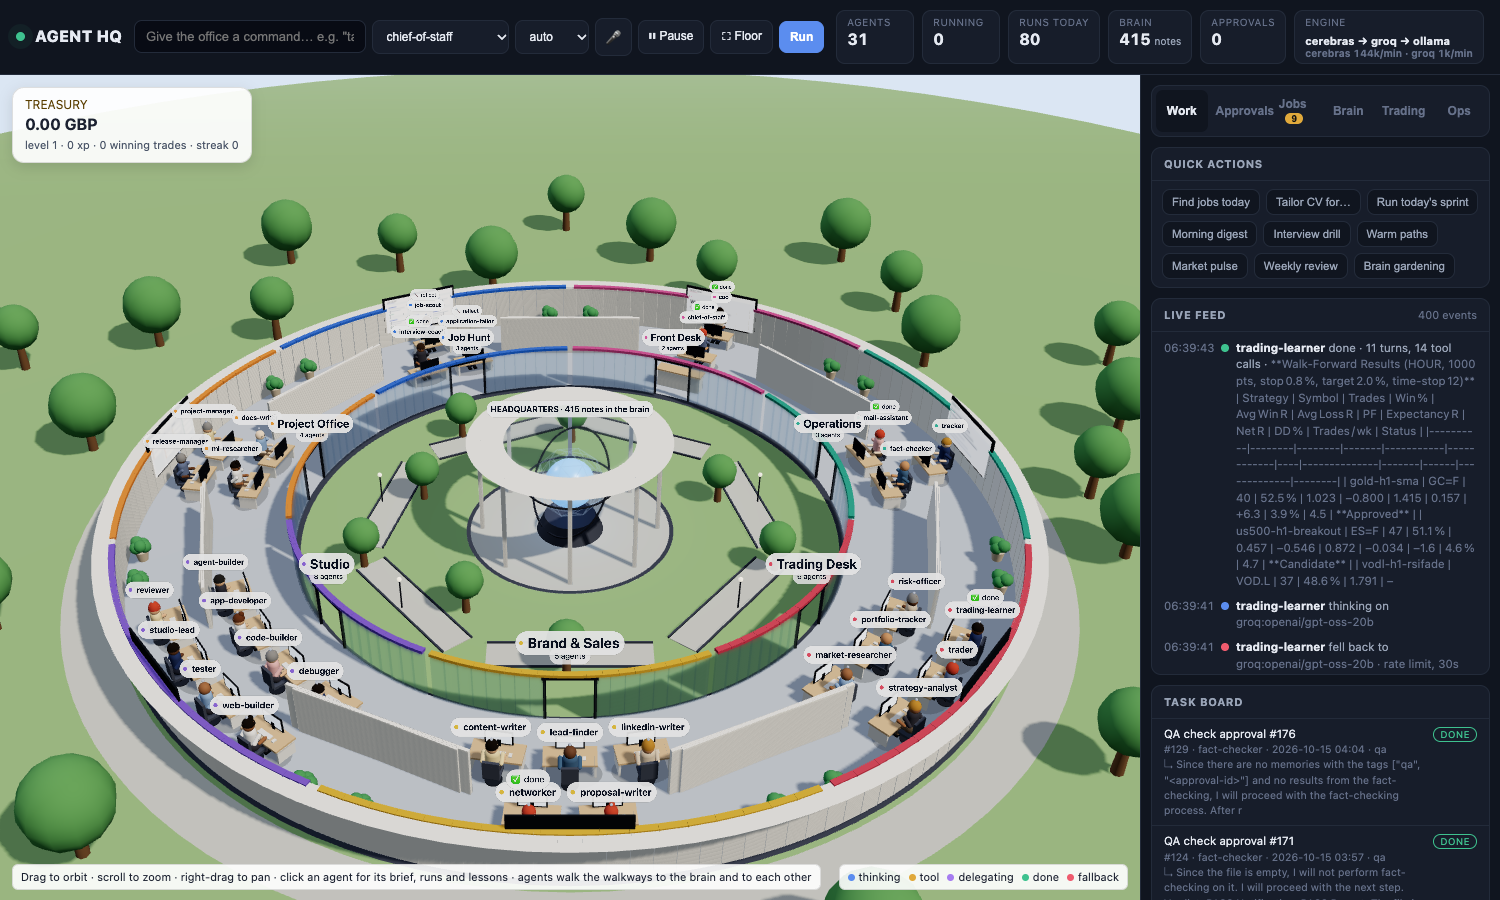
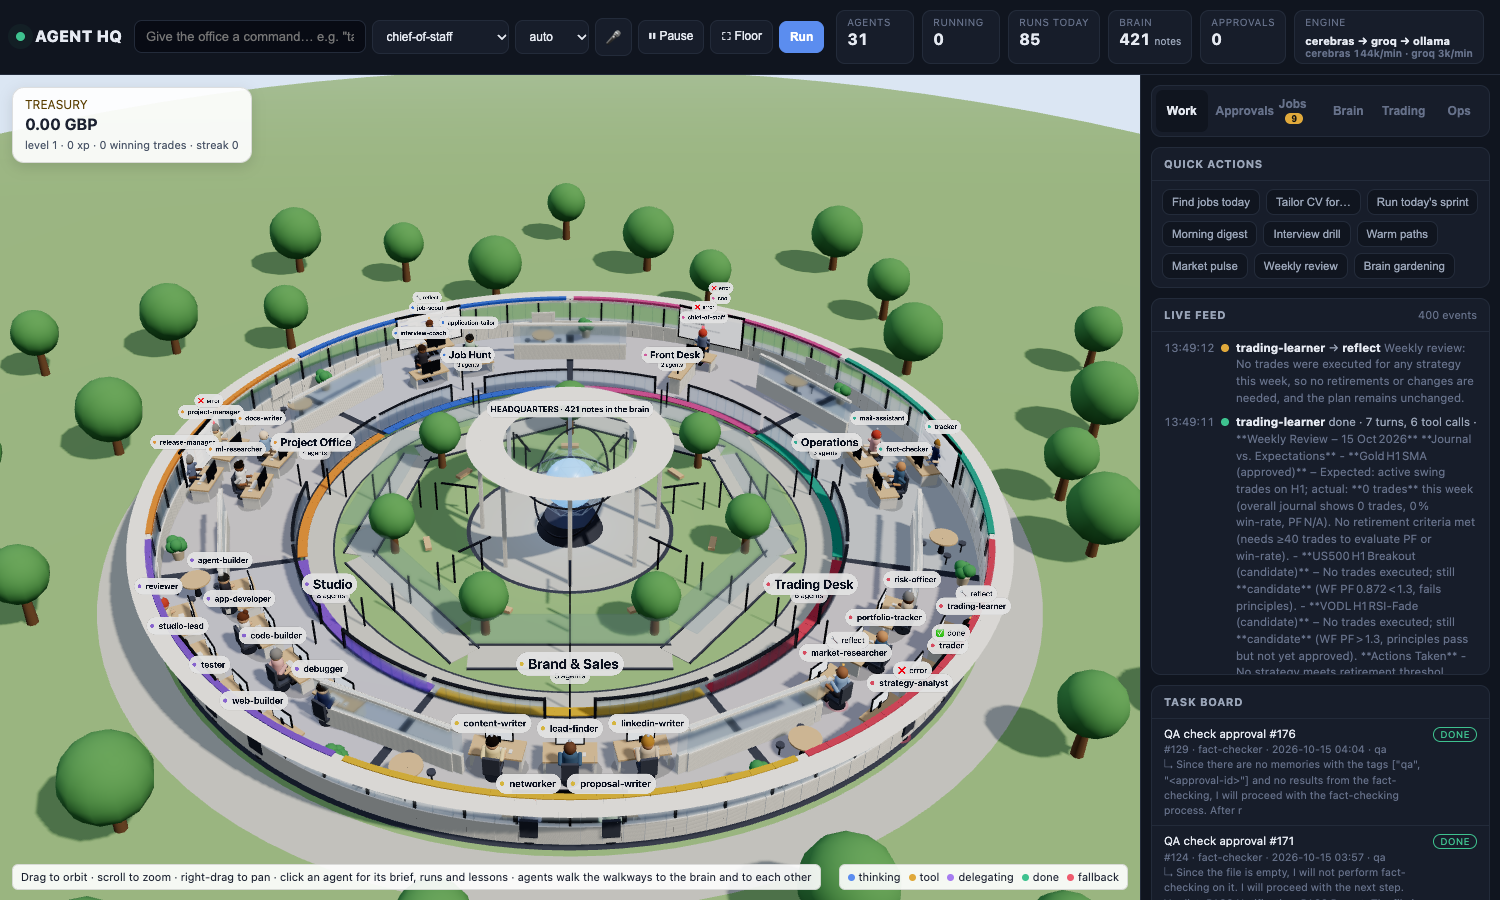
Sync from dev: Ring campus detailing: continuous walkways under glass canopies, promenade, lawn wedges, tinted floors, meeting tables, balustrade inner wall; resume only on Pribin's word; parallelism follows healthy providers; outage failures retry

diff --git a/office/static/office3d.js b/office/static/office3d.js
@@ -15,7 +15,7 @@ const STATE_COLOR = { idle: 0x9aa3b5, think: 0x3b6fd6, tool: 0xd98433, delegate:
 const SKIN = [0xf3cfae, 0xe0b08a, 0xc48e63, 0x9c6a45, 0x6f4a30, 0xf7dcc0];
 const TOPS = [0x2d3f6b, 0xf2f2f2, 0x6b7a99, 0x8fb0d9, 0xd9c7b0, 0x3f3f4a, 0xb9d3c2, 0xe6b3b3, 0x4a6b8a, 0xf0d9a8];
 const HAIR = [0x1d140e, 0x3b2616, 0x6b3f22, 0xb8842d, 0x2a2a2a, 0x8a8a8a, 0xc24b2f];
-const RI = 34, RO = 54, RP = 13, H = 6;          // ring inner/outer radius, courtyard plaza radius, wall height
+const RI = 34, RO = 50, RP = 13, H = 6;          // ring inner/outer radius, courtyard plaza radius, wall height
 
 let renderer, scene, camera, controls, container, clock, raycaster, mouse;
 let ring, figures = {}, depts = {}, brain, brainRings = [], brainLight, particles = [], labels = [], opts = {}, lastFrame = 0, hovered = null;
@@ -113,7 +113,6 @@ export function init(el, options = {}) {
   const plazaRing = new THREE.Mesh(new THREE.RingGeometry(RP - 0.5, RP, 64), M.wallDark); plazaRing.rotation.x = -Math.PI / 2; plazaRing.position.y = 0.06; scene.add(plazaRing);
   for (let i = 0; i < 34; i++) { const a = (i / 34) * Math.PI * 2 + 0.1, r = RO + 14 + (i % 3) * 12; const tree = new THREE.Group(); const trunk = new THREE.Mesh(new THREE.CylinderGeometry(0.5, 0.7, 5, 8), M.trunk); trunk.position.y = 2.5; trunk.castShadow = true; tree.add(trunk);
     const c1 = new THREE.Mesh(new THREE.SphereGeometry(3.4 + (i % 2), 12, 10), M.canopy); c1.position.y = 7; c1.castShadow = true; tree.add(c1); tree.position.copy(polar(r, a)); scene.add(tree); }
-  for (let i = 0; i < 10; i++) { const a = (i / 10) * Math.PI * 2 + 0.3, r = RP + 7 + (i % 2) * 6; if (Math.abs(Math.sin(a * 3.5)) < 0.25) continue; const tree = new THREE.Group(); const trunk = new THREE.Mesh(new THREE.CylinderGeometry(0.35, 0.5, 3.5, 8), M.trunk); trunk.position.y = 1.75; tree.add(trunk); const c1 = new THREE.Mesh(new THREE.SphereGeometry(2.2, 12, 10), M.canopy); c1.position.y = 4.6; c1.castShadow = true; tree.add(c1); tree.position.copy(polar(r, a)); scene.add(tree); }
   buildCenter();
   renderer.domElement.addEventListener("pointerdown", e => { mouse.userData = { x: e.clientX, y: e.clientY }; });
   renderer.domElement.addEventListener("pointerup", e => { const d = mouse.userData; if (d && Math.hypot(e.clientX - d.x, e.clientY - d.y) < 5) { const f = pick(e); if (f && opts.onAgentClick) opts.onAgentClick(f.name); } });
@@ -163,43 +162,64 @@ export function setRoster(list) {
   const byOffice = {}; list.forEach(a => (byOffice[a.office] = byOffice[a.office] || []).push(a));
   const names = Object.keys(byOffice).sort((a, b) => (OFFICE_ORDER.indexOf(a) + 99) % 100 - (OFFICE_ORDER.indexOf(b) + 99) % 100);
   const n = names.length; const span = Math.PI * 2 / n; const gap = 0.012;
-  // shared parts: floor slab, outer wall, roof overhang ring
-  const slab = new THREE.Mesh(new THREE.RingGeometry(RI - 0.6, RO + 0.6, 96), M.wallDark); slab.rotation.x = -Math.PI / 2; slab.position.y = 0.4; slab.receiveShadow = true; ring.add(slab);
-  const carpet = new THREE.Mesh(new THREE.RingGeometry(RI, RO, 96), M.carpet); carpet.rotation.x = -Math.PI / 2; carpet.position.y = 0.82; carpet.receiveShadow = true; ring.add(carpet);
-  arcWall(ring, RO, 0, Math.PI * 2, 0.8 + H / 2, H, 0.5, M.wall, 0.04);
-  const eave = new THREE.Mesh(new THREE.RingGeometry(RO - 0.2, RO + 2.2, 96), M.wall); eave.rotation.x = -Math.PI / 2; eave.position.y = 0.8 + H + 0.2; eave.castShadow = true; ring.add(eave);
+  // the building shell: slab, outer wall with a window band, roof eave
+  const slab = new THREE.Mesh(new THREE.RingGeometry(RI - 0.6, RO + 0.6, 128), M.wallDark); slab.rotation.x = -Math.PI / 2; slab.position.y = 0.4; slab.receiveShadow = true; ring.add(slab);
+  arcWall(ring, RO, 0, Math.PI * 2, 0.8 + 1.2, 2.4, 0.5, M.wall, 0.04);           // low wall
+  arcWall(ring, RO, 0, Math.PI * 2, 0.8 + 2.4 + 1.6, 3.2, 0.25, M.glass, 0.04);   // window band
+  arcWall(ring, RO, 0, Math.PI * 2, 0.8 + H - 0.2, 0.4, 0.5, M.wall, 0.04);        // beam
+  for (let i = 0; i < 64; i++) { const a = (i / 64) * Math.PI * 2; const mull = box(0.25, H, 0.25, M.frame); mull.position.copy(polar(RO, a, 0.8 + H / 2)); mull.rotation.y = a; ring.add(mull); }
+  const eave = new THREE.Mesh(new THREE.RingGeometry(RO - 0.2, RO + 2.4, 128), M.wall); eave.rotation.x = -Math.PI / 2; eave.position.y = 0.8 + H + 0.25; eave.castShadow = true; ring.add(eave);
+  // courtyard: a promenade joining every doorway, radial walkways under glass canopies, lawn wedges with one tree each
+  const prom = new THREE.Mesh(new THREE.RingGeometry(RI - 4.6, RI - 1.0, 128), M.path); prom.rotation.x = -Math.PI / 2; prom.position.y = 0.06; prom.receiveShadow = true; ring.add(prom);
+  for (const r of [RI - 4.6, RI - 1.0]) { const kerb = new THREE.Mesh(new THREE.RingGeometry(r - 0.12, r + 0.12, 128), M.wallDark); kerb.rotation.x = -Math.PI / 2; kerb.position.y = 0.07; ring.add(kerb); }
   names.forEach((name, i) => {
-    const members = byOffice[name]; const accent = ACCENT[name] || 0x3b6fd6;
+    const members = byOffice[name]; const accent = ACCENT[name] || 0x3b6fd6; const acc = new THREE.Color(accent);
     const th0 = Math.PI / 2 + i * span + gap, th1 = Math.PI / 2 + (i + 1) * span - gap, mid = (th0 + th1) / 2;
-    depts[name] = { name, mid, accent, gate: polar(RI - 1.2, mid), plaza: polar(RP + 1.2, mid), centre: polar((RI + RO) / 2, mid) };
-    // partitions, inner glass wall with a doorway on the walkway, parapet in the department colour
-    for (const th of [th0, th1]) { const part = box(RO - RI, H, 0.4, M.wall); part.position.copy(polar((RI + RO) / 2, th, 0.8 + H / 2)); part.rotation.y = th + Math.PI / 2; ring.add(part); }
+    depts[name] = { name, mid, accent, gate: polar(RI - 1.4, mid), plaza: polar(RP + 1.4, mid), centre: polar((RI + RO) / 2, mid) };
+    // tinted floor for this department
+    const floor = new THREE.Mesh(new THREE.RingGeometry(RI, RO, 48, 1, th0, th1 - th0), new THREE.MeshStandardMaterial({ color: acc.clone().multiplyScalar(0.25).lerp(new THREE.Color(0xd8dde6), 0.72), roughness: 1, side: THREE.DoubleSide }));
+    floor.rotation.x = -Math.PI / 2; floor.position.y = 0.82; floor.receiveShadow = true; ring.add(floor);
+    // partitions (solid below, glass above), inner glass wall with a doorway, parapets in the department colour
+    for (const th of [th0, th1]) { const low = box(RO - RI, 2.6, 0.5, M.wall); low.position.copy(polar((RI + RO) / 2, th, 0.8 + 1.3)); low.rotation.y = th + Math.PI / 2; ring.add(low);
+      const up = new THREE.Mesh(new THREE.BoxGeometry(RO - RI, H - 2.6, 0.3), M.glass); up.position.copy(polar((RI + RO) / 2, th, 0.8 + 2.6 + (H - 2.6) / 2)); up.rotation.y = th + Math.PI / 2; ring.add(up);
+      const cap = box(RO - RI, 0.3, 0.5, M.wall); cap.position.copy(polar((RI + RO) / 2, th, 0.8 + H - 0.15)); cap.rotation.y = th + Math.PI / 2; ring.add(cap); }
     const door = 2.6 / RI;
-    arcWall(ring, RI, th0, mid - door, 0.8 + H / 2, H, 0.3, M.glass); arcWall(ring, RI, mid + door, th1, 0.8 + H / 2, H, 0.3, M.glass);
-    arcWall(ring, RI, th0, th1, 0.8 + H + 0.17, 0.35, 0.7, M.accentBand(accent)); arcWall(ring, RO, th0, th1, 0.8 + H + 0.17, 0.35, 0.7, M.accentBand(accent));
-    for (const th of [mid - door, mid + door]) { const post = box(0.3, H, 0.3, M.frame); post.position.copy(polar(RI, th, 0.8 + H / 2)); ring.add(post); }
-    const lintel = box(0.4, 0.4, RI * door * 2 + 0.6, M.frame); lintel.position.copy(polar(RI, mid, 0.8 + H - 0.2)); lintel.rotation.y = mid; ring.add(lintel);
-    // walkway from the doorway to the plaza
-    const L = RI - RP - 2.4; const walk = box(3.6, 0.12, L, M.path); walk.position.copy(polar(RP + 1.2 + L / 2, mid, 0.06)); walk.rotation.y = mid; walk.receiveShadow = true; ring.add(walk);
-    for (const sx of [-1, 1]) { const kerb = box(0.22, 0.25, L, M.wallDark); kerb.position.copy(polar(RP + 1.2 + L / 2, mid, 0.12)); kerb.rotation.y = mid; kerb.translateX(sx * 1.95); ring.add(kerb); }
-    const lamp = new THREE.Group(); const pole = new THREE.Mesh(new THREE.CylinderGeometry(0.08, 0.1, 4.2, 8), M.frame); pole.position.y = 2.1; lamp.add(pole); const head = new THREE.Mesh(new THREE.SphereGeometry(0.3, 8, 8), M.light(0xfff4dc, 0.6)); head.position.y = 4.3; lamp.add(head); lamp.position.copy(polar(RP + L / 2, mid)); lamp.rotation.y = mid; lamp.translateX(2.6); ring.add(lamp);
-    // department sign over the doorway and the wall display on the outer wall
-    const sign = textSprite(TITLE[name] || name, { size: 34, accent: "#" + accent.toString(16).padStart(6, "0") }); sign.position.copy(polar(RI - 0.5, mid, 0.8 + H + 4.0)); ring.add(sign);
-    const count = textSprite(`${members.length} agent${members.length > 1 ? "s" : ""}`, { size: 19, bold: false, bg: "rgba(255,255,255,.85)" }); count.position.copy(polar(RI - 0.5, mid, 0.8 + H + 2.3)); ring.add(count);
-    const arcLen = RO * (th1 - th0); const sw = Math.min(arcLen - 6, 11), sh = sw / 2; const tex = screenTexture(name, accent);
+    arcWall(ring, RI, th0, mid - door, 0.8 + 1.3, 2.6, 0.25, M.glass); arcWall(ring, RI, mid + door, th1, 0.8 + 1.3, 2.6, 0.25, M.glass);   // glass balustrade, open above
+    arcWall(ring, RI, th0, mid - door, 0.8 + 2.65, 0.12, 0.4, M.frame); arcWall(ring, RI, mid + door, th1, 0.8 + 2.65, 0.12, 0.4, M.frame);
+    arcWall(ring, RI - 0.9, th0, th1, 0.86, 0.12, 1.2, M.accentBand(accent)); arcWall(ring, RO, th0, th1, 0.8 + H + 0.17, 0.35, 0.7, M.accentBand(accent));   // colour strip along the inner floor edge, parapet on the outer wall
+    for (const th of [mid - door, mid + door]) { const post = box(0.3, 2.8, 0.3, M.frame); post.position.copy(polar(RI, th, 0.8 + 1.4)); ring.add(post); }
+    // walkway: plaza edge -> through the promenade -> into the doorway, with a glass canopy on slim posts
+    const L = RI - RP + 1.6; const walk = box(3.6, 0.12, L, M.path); walk.position.copy(polar(RP + L / 2 - 0.4, mid, 0.07)); walk.rotation.y = mid; walk.receiveShadow = true; ring.add(walk);
+    for (const sx of [-1, 1]) { const kerb = box(0.22, 0.25, L, M.wallDark); kerb.position.copy(polar(RP + L / 2 - 0.4, mid, 0.12)); kerb.rotation.y = mid; kerb.translateX(sx * 1.95); ring.add(kerb);
+      for (let k = 0; k < 4; k++) { const post = box(0.18, 4.2, 0.18, M.frame); post.position.copy(polar(RP + 2.5 + k * (L - 4) / 3, mid, 2.1)); post.rotation.y = mid; post.translateX(sx * 2.0); ring.add(post); } }
+    const canopy = new THREE.Mesh(new THREE.BoxGeometry(4.6, 0.18, L - 1), M.glass); canopy.position.copy(polar(RP + L / 2 - 0.4, mid, 4.3)); canopy.rotation.y = mid; ring.add(canopy);
+    const canopyEdge = box(4.6, 0.12, 0.3, M.frame); canopyEdge.position.copy(polar(RP + 1.4, mid, 4.3)); canopyEdge.rotation.y = mid; ring.add(canopyEdge);
+    // lawn wedge between this walkway and the next, with one tree and a bench
+    const wedgeMid = mid + span / 2; const tree = new THREE.Group(); const trunk = new THREE.Mesh(new THREE.CylinderGeometry(0.4, 0.55, 4, 8), M.trunk); trunk.position.y = 2; trunk.castShadow = true; tree.add(trunk);
+    const c1 = new THREE.Mesh(new THREE.SphereGeometry(2.8, 12, 10), M.canopy); c1.position.y = 5.4; c1.castShadow = true; tree.add(c1); tree.position.copy(polar(RP + 9, wedgeMid)); ring.add(tree);
+    const bench = box(2.4, 0.4, 0.8, M.wood); bench.position.copy(polar(RP + 5, wedgeMid, 0.6)); bench.rotation.y = wedgeMid + Math.PI / 2; ring.add(bench);
+    // department sign over the doorway, the wall display and a whiteboard on the outer wall
+    const sign = textSprite(TITLE[name] || name, { size: 34, accent: "#" + accent.toString(16).padStart(6, "0") }); sign.position.copy(polar(RI - 0.5, mid, 0.8 + 7.2)); ring.add(sign);
+    const count = textSprite(`${members.length} agent${members.length > 1 ? "s" : ""}`, { size: 19, bold: false, bg: "rgba(255,255,255,.85)" }); count.position.copy(polar(RI - 0.5, mid, 0.8 + 5.6)); ring.add(count);
+    const arcLen = RO * (th1 - th0); const sw = Math.min(arcLen - 8, 10), sh = sw / 2; const tex = screenTexture(name, accent);
     const screen = new THREE.Mesh(new THREE.PlaneGeometry(sw, sh), new THREE.MeshStandardMaterial({ map: tex, emissive: 0xffffff, emissiveMap: tex, emissiveIntensity: 0.35, roughness: 0.4 }));
-    screen.position.copy(polar(RO - 0.6, mid, 0.8 + 2.3 + sh / 2)); screen.rotation.y = mid - Math.PI / 2; ring.add(screen);   // face the courtyard
-    const bezel = box(sw + 0.5, sh + 0.5, 0.2, M.monitor); bezel.position.copy(polar(RO - 0.36, mid, 0.8 + 2.3 + sh / 2)); bezel.rotation.y = mid + Math.PI / 2; ring.add(bezel);
-    for (const th of [th0 + 0.05, th1 - 0.05]) { const plant = new THREE.Group(); const pot = new THREE.Mesh(new THREE.CylinderGeometry(0.8, 0.6, 1.3, 14), M.pot); pot.position.y = 1.45; plant.add(pot); for (let k = 0; k < 5; k++) { const leaf = new THREE.Mesh(new THREE.SphereGeometry(0.75, 10, 8), M.plant); leaf.position.set(Math.cos(k * 1.26) * 0.55, 2.7 + (k % 2) * 0.4, Math.sin(k * 1.26) * 0.55); leaf.castShadow = true; plant.add(leaf); } plant.position.copy(polar(RO - 2.2, th, 0.8)); ring.add(plant); }
-    if (name === "front-desk") { const counter = box(6.5, 2.6, 1.6, M.wall); counter.position.copy(polar(RI + 3.2, mid, 2.1)); counter.rotation.y = mid + Math.PI / 2; ring.add(counter); const ctop = box(6.9, 0.2, 2.0, M.wood); ctop.position.copy(polar(RI + 3.2, mid, 3.5)); ctop.rotation.y = mid + Math.PI / 2; ring.add(ctop); }
+    screen.position.copy(polar(RO - 0.7, mid, 0.8 + 1.4 + sh / 2)); screen.rotation.y = mid - Math.PI / 2; ring.add(screen);
+    const bezel = box(sw + 0.5, sh + 0.5, 0.2, M.monitor); bezel.position.copy(polar(RO - 0.45, mid, 0.8 + 1.4 + sh / 2)); bezel.rotation.y = mid + Math.PI / 2; ring.add(bezel);
+    // meeting corner: round table with stools near one partition; plants at the other
+    const tbl = new THREE.Group(); const ttop = new THREE.Mesh(new THREE.CylinderGeometry(1.7, 1.7, 0.18, 24), M.wood); ttop.position.y = 2.3; ttop.castShadow = true; tbl.add(ttop); const tleg = new THREE.Mesh(new THREE.CylinderGeometry(0.15, 0.4, 2.2, 12), M.frame); tleg.position.y = 1.1; tbl.add(tleg);
+    for (let k = 0; k < 4; k++) { const st = new THREE.Mesh(new THREE.CylinderGeometry(0.45, 0.45, 0.25, 12), M.chair); st.position.set(Math.cos(k * 1.57) * 2.4, 1.4, Math.sin(k * 1.57) * 2.4); tbl.add(st); const sl = new THREE.Mesh(new THREE.CylinderGeometry(0.08, 0.1, 1.3, 8), M.frame); sl.position.set(Math.cos(k * 1.57) * 2.4, 0.7, Math.sin(k * 1.57) * 2.4); tbl.add(sl); }
+    tbl.position.copy(polar(RO - 4.5, th0 + 3.6 / (RO - 4.5), 0.8)); ring.add(tbl);
+    const wb = box(3.6, 2.0, 0.12, M.wall); wb.position.copy(polar(RO - 0.7, th0 + 3.6 / RO, 0.8 + 3.2)); wb.rotation.y = th0 + 3.6 / RO + Math.PI / 2; ring.add(wb);
+    for (const th of [th1 - 0.04]) { const plant = new THREE.Group(); const pot = new THREE.Mesh(new THREE.CylinderGeometry(0.8, 0.6, 1.3, 14), M.pot); pot.position.y = 1.45; plant.add(pot); for (let k = 0; k < 5; k++) { const leaf = new THREE.Mesh(new THREE.SphereGeometry(0.75, 10, 8), M.plant); leaf.position.set(Math.cos(k * 1.26) * 0.55, 2.7 + (k % 2) * 0.4, Math.sin(k * 1.26) * 0.55); leaf.castShadow = true; plant.add(leaf); } plant.position.copy(polar(RO - 2.4, th, 0.8)); ring.add(plant); }
+    if (name === "front-desk") { const counter = box(6.5, 2.6, 1.6, M.wall); counter.position.copy(polar(RI + 4.2, mid, 2.1)); counter.rotation.y = mid; ring.add(counter); const ctop = box(6.9, 0.2, 2.0, M.wood); ctop.position.copy(polar(RI + 4.2, mid, 3.5)); ctop.rotation.y = mid; ring.add(ctop); }
     // desks: rows along the radius, columns along the arc, everyone facing the courtyard
     const cols = Math.min(4, Math.ceil(members.length / 2)), rows = Math.ceil(members.length / cols);
     members.forEach((a, k) => {
       const row = Math.floor(k / cols), col = k % cols; const inRow = Math.min(cols, members.length - row * cols);
-      const r = RI + 7 + row * 7.5 + (name === "front-desk" ? 3 : 0); const dth = 7.2 / r; const th = mid + (col - (inRow - 1) / 2) * dth;
+      const r = RI + 6.5 + row * 7 + (name === "front-desk" ? 3.5 : 0); const dth = 7.2 / r; const th = mid + (col - (inRow - 1) / 2) * dth;
       const deskPos = polar(r, th, 0.8); const rot = facing(deskPos, new THREE.Vector3(0, 0.8, 0));
       const desk = addDesk(); desk.position.copy(deskPos); desk.rotation.y = rot; ring.add(desk);
-      const seat = deskPos.clone().add(new THREE.Vector3(Math.sin(rot) * 2.0, 0, Math.cos(rot) * 2.0));   // the chair is at local +z, behind the desk from the courtyard
+      const seat = deskPos.clone().add(new THREE.Vector3(Math.sin(rot) * 2.0, 0, Math.cos(rot) * 2.0));
       const fig = makeFigure(a, k, accent); fig.group.position.copy(seat); fig.group.rotation.y = rot;
       fig.home = seat.clone(); fig.homeRot = rot; fig.dept = name; scene.add(fig.group);
       fig.label = textSprite(a.name, { size: 21, accent: "#" + accent.toString(16).padStart(6, "0") }); fig.label.position.copy(seat).add(new THREE.Vector3(0, 7.6, 0)); scene.add(fig.label);

diff --git a/office/scheduler.py b/office/scheduler.py
@@ -123,6 +123,15 @@ def busy() -> bool:
     return bool(running_ids())
 
 
+def _provider_down() -> dict:
+    try:
+        sys.path.insert(0, str(ROOT / "office"))
+        from runtime import provider_down
+        return provider_down()
+    except Exception:
+        return {}
+
+
 def budget() -> dict:
     """Per provider: fraction of the daily/minute budget left, from the latest rate-limit headers."""
     try:
@@ -144,7 +153,8 @@ def budget() -> dict:
         minute = frac("x-ratelimit-remaining-tokens-minute", "x-ratelimit-limit-tokens-minute")
         if minute is None:
             minute = frac("x-ratelimit-remaining-tokens", "x-ratelimit-limit-tokens")
-        out[prov] = {"day": day, "minute": minute, "ok": (day is None or day > STANDING_BUDGET_FRACTION) and (minute is None or minute > 0.15)}
+        down = prov in _provider_down()
+        out[prov] = {"day": day, "minute": minute, "down": down, "ok": not down and (day is None or day > STANDING_BUDGET_FRACTION) and (minute is None or minute > 0.15)}
     return out
 
 
@@ -348,6 +358,10 @@ def tick(brain: BrainStore, engine: str = "auto") -> dict:
             continue
         if r["proc"].poll() is not None:
             t = brain.task_get(tid)
+            if t["status"] == "failed" and "no capable model" in (t.get("result") or "") and (t.get("result") or "").count("retry_after") < 3:
+                # every cloud provider was cooling down: try again in 15 minutes instead of giving up
+                brain.task_update(tid, agent="scheduler", status="queued", result=(t.get("result") or "")[:300] + f" | retry_after:{int(time.time()) + 900}")
+                info["finished"].append(tid); _running.pop(tid, None); continue
             if t["status"] == "running":   # run.py marks done/failed itself; safety net if it died hard
                 brain.task_update(tid, agent="scheduler", status="failed", result=f"process exited {r['proc'].returncode} without reporting")
                 t = brain.task_get(tid)
@@ -360,9 +374,16 @@ def tick(brain: BrainStore, engine: str = "auto") -> dict:
     info["enqueued"] = enqueue_due_jobs(brain) + enqueue_standing_work(brain)
     check_approvals(brain)
     housekeeping()
-    while len(running_ids()) < MAX_PARALLEL:
+    healthy = [p for p, v in budget().items() if v["ok"] and not v.get("down")]
+    effective = max(1, min(MAX_PARALLEL, len(healthy))) if budget() else MAX_PARALLEL
+    now = time.time()
+    while len(running_ids()) < effective:
         nxt = brain.task_claim_next()
         if not nxt:
+            break
+        m = re.search(r"retry_after:(\d+)", nxt.get("result") or "")
+        if m and float(m.group(1)) > now:
+            brain.task_update(nxt["id"], agent="scheduler", status="queued")   # not yet: leave it queued for a later tick
             break
         eng = engine if engine != "auto" else pick_engine()
         _running[nxt["id"]] = {"proc": _spawn(nxt, eng), "task": nxt, "engine": eng}

diff --git a/tests/test_events_and_scheduler.py b/tests/test_events_and_scheduler.py
@@ -183,3 +183,35 @@ def test_pause_stops_new_work_but_reaps_finished(tmp_path, monkeypatch):
     scheduler.set_paused(True, "timed", hours=-1)
     assert scheduler.paused()["paused"] is False
     scheduler._running.clear()
+
+
+def test_agents_cannot_resume_unless_their_task_asks(tmp_path, monkeypatch):
+    import tools, events, json as _j
+    monkeypatch.setattr(scheduler, "TUNING_FILE", tmp_path / "t.json"); (tmp_path / "t.json").write_text(_j.dumps({"paused": True, "paused_reason": "x"}))
+    monkeypatch.setattr(events, "EVENTS_FILE", tmp_path / "ev.jsonl")
+    events.emit("start", "chief-of-staff", "r1", task="tell every agent to rest")
+    assert tools.office_resume("", _agent="chief-of-staff").startswith("refused") and scheduler.paused()["paused"]
+    events.emit("start", "chief-of-staff", "r2", task="Pribin says resume the office")
+    assert tools.office_resume("", _agent="chief-of-staff").startswith("office resumed") and not scheduler.paused()["paused"]
+    scheduler.set_paused(True, "again"); assert tools.office_resume("", _agent="pribin").startswith("office resumed")
+
+
+def test_scheduler_parallelism_follows_healthy_providers_and_retries_model_outages(tmp_path, monkeypatch):
+    import json as _j
+    b = _brain(tmp_path); scheduler._running.clear(); scheduler._reconciled = True
+    tf = tmp_path / "tuning.json"; tf.write_text(_j.dumps({"max_parallel": 2})); monkeypatch.setattr(scheduler, "TUNING_FILE", tf); monkeypatch.setenv("OFFICE_MAX_PARALLEL", "2")
+    monkeypatch.setattr(scheduler, "STANDING_FILE", tmp_path / "s.yaml"); monkeypatch.setattr(scheduler, "SCHEDULE_FILE", tmp_path / "j.yaml"); monkeypatch.setattr(scheduler, "STATE_FILE", tmp_path / "st.json")
+    monkeypatch.setattr(scheduler, "_notify", lambda *a: None); monkeypatch.setattr(scheduler, "housekeeping", lambda: {}); monkeypatch.setattr(scheduler, "check_approvals", lambda brain: 0)
+    monkeypatch.setattr(scheduler, "budget", lambda: {"cerebras": {"day": 1, "minute": 1, "down": True, "ok": False}, "groq": {"day": 1, "minute": 1, "down": False, "ok": True}})
+    class P:
+        returncode = None
+        def poll(self): return self.returncode
+    monkeypatch.setattr(scheduler, "_spawn", lambda task, eng: P())
+    for i in range(3): b.task_create(f"t{i}", "x", owner="job-scout")
+    info = scheduler.tick(b)
+    assert len(info["started"]) == 1                      # only one healthy provider -> one run at a time
+    tid = info["started"][0]; scheduler._running[tid]["proc"].returncode = 1
+    b.task_update(tid, status="failed", result="EngineError: no capable model available: every cloud provider is cooling down")
+    info = scheduler.tick(b)
+    t = b.task_get(tid); assert t["status"] == "queued" and "retry_after:" in t["result"]   # retried later, not abandoned
+    scheduler._running.clear()

diff --git a/office/tools.py b/office/tools.py
@@ -1113,6 +1113,16 @@ def office_pause(reason: str, hours: float | None = None, _agent="unknown"):
     "type": "object", "properties": {"note": {"type": "string"}}})
 def office_resume(note: str = "", _agent="unknown"):
     import scheduler
+    if _agent != "pribin":
+        # the agent may only resume when the task it is running on literally asks for it
+        try:
+            from events import read_tail
+            starts = [e for e in read_tail(400) if e.get("type") == "start" and e.get("agent") == _agent]
+            task = starts[-1]["task"] if starts else ""
+        except Exception:
+            task = ""
+        if not re.search(r"\b(resume|unpause|continue the office|start again|carry on|go ahead|restart the office)\b", task, re.I):
+            return "refused: only Pribin can resume the office (press Resume on the dashboard or phone, or tell the chief 'resume'). Your current task does not ask for it."
     scheduler.set_paused(False)
     brain.remember(f"Office RESUMED by {_agent}. {note}".strip(), agent=_agent, kind="event", importance=4, tags=["ops", "resume"])
     return "office resumed: the scheduler is starting work again."
